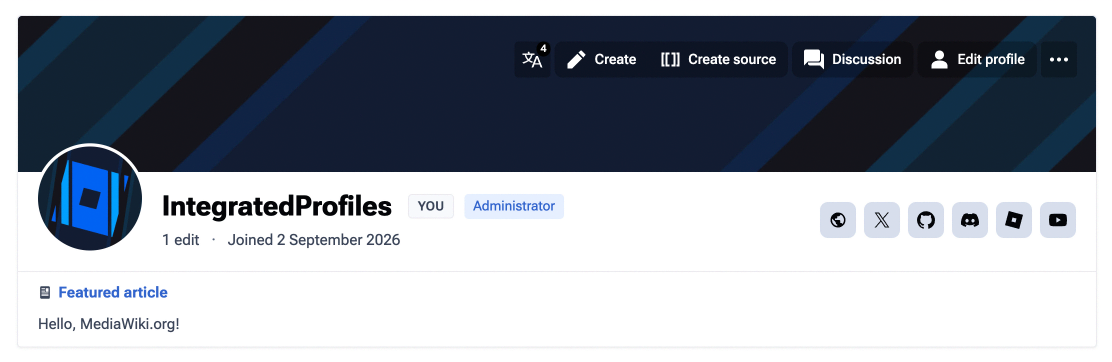
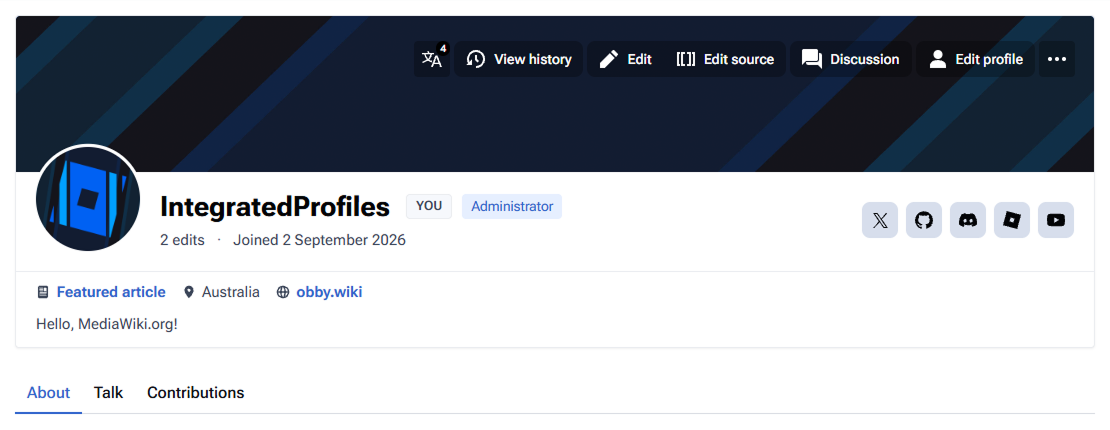
docs: update preview image

Changed region(s): [[0.0, 0.0304, 1.0, 0.6989], [0.0, 0.8812, 0.2144, 0.9724], [0.0306, 0.7293, 0.1838, 0.8204]]

diff --git a/README.md b/README.md
@@ -1,6 +1,7 @@
 # IntegratedProfiles (Usage)
 
 ![IntegratedProfiles Preview](./docs/images/image.png)
+> Screenshot taken on the Citizen skin while using IntegratedProfiles v0.5.0.
 
 > [!WARNING]  
 > IntegratedProfiles is currently in BETA.
@@ -18,7 +19,7 @@ IntegratedProfiles implements user profiles, similar to Fandom and UserProfilesV
 ### Suggestions
 
 * FloatingUI
-* One of the following supported skins: `Citizen`, `Vector-2022`
+* One of the following supported skins: `Citizen`, `Vector-2022` (or any Codex-compatible skin)
 
 ### Install
 
